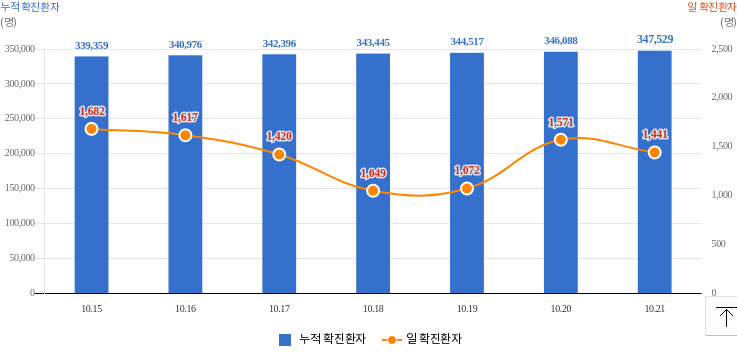
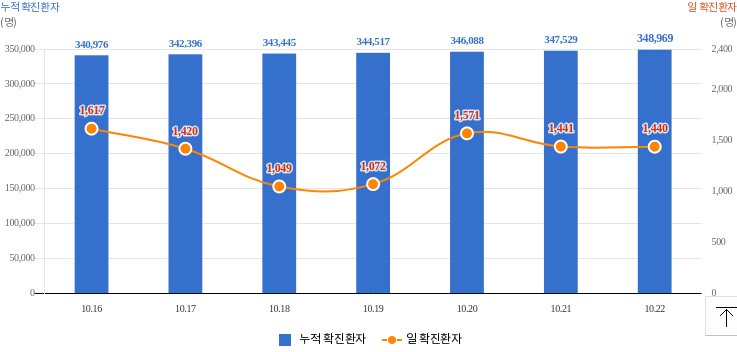
Run crawler and update current data

diff --git a/data.js b/data.js
@@ -7,7 +7,7 @@ var 검사중 = '1,323';
 var 검사결과 = '480,912';
 var 자가격리자 = '234';
 var 거리두기단계 = '사회적 거리두기  3단계 시행 : 2021. 10. 18.(월) 0시 ~ 10. 31.(일) 24시';
-var 국내발생 = '1,430';
-var 해외발생 = '11';
-var 합계 = '1441';
+var 국내발생 = '1,420';
+var 해외발생 = '20';
+var 합계 = '1440';
 var data = [];
